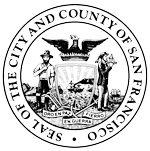
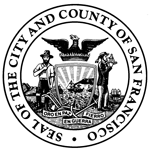
update MOCI branding

diff --git a/css/style.css b/css/style.css
@@ -1,9 +1,14 @@
 @charset "utf-8";
 /* CSS Document */
 
+* {
+    -webkit-font-smoothing: antialiased;
+}
+
 body{
 	margin:0px;
-	font-family: 'Lato', sans-serif;
+	font-family: "Lato", sans-serif;
+    font-weight: normal;
 }
 
 .container p,
@@ -124,7 +129,7 @@ a:hover {
     font-size: 20px;
     text-transform: uppercase;
     font-family: "Montserrat", sans-serif;
-    color: #FFF;
+    color: #FFFFFF;
 }
 
 @media screen and (min-width: 768px) {
@@ -192,22 +197,40 @@ a:hover {
     text-decoration: underline;
 }
 
-.brand-wrapper {
-    margin-left: 90px;
-    margin-top: 20px;
+.brand-wrapper a:hover {
+    text-decoration: none;
+}
+
+.brand-outer-wrapper a img {
+    margin-right: 3%;
+    margin-top: 5%;
 }
 
 h1.office-brand {
     text-align: left;
-    color: white;
+    color: #FFF;
     padding: 0;
     margin: 0;
+    font-size: 15px;
+    font-family: "Montserrat", sans-serif;
+    text-transform: uppercase;
+    font-weight: normal;
+    line-height: 21px;
+}
+
+.brand-outer-wrapper {
+    float: left;
+    z-index: 100;
+    position: relative;
+    width: 70%;
+    margin-top: 30px;
+    margin-bottom: 10px;
 }
 
 .office-brand-lead {
     margin: 0;
-    padding: 0;
-    color: #fff;
+    padding-top: 6%;
+    color: #FFF;
 }
 
 h1{
@@ -258,7 +281,7 @@ h5 a{
 	width:240px;
 	height:65px;
 	font-size: 28px;
-	font-family: 'lato', 'Helvetica Neue', 'Helvetica Neue Medium', 'HelveticaNeue LT 65 Medium';;
+	font-family: "Lato", 'Helvetica Neue', 'Helvetica Neue Medium', 'HelveticaNeue LT 65 Medium';;
 	text-align:center;
 	font-weight:bold;
 	cursor:pointer;	
@@ -280,7 +303,7 @@ h5 a{
 	width:240px;
 	height:65px;
 	font-size: 28px;
-	font-family: 'lato', 'Helvetica Neue', 'Helvetica Neue Medium', 'HelveticaNeue LT 65 Medium';;
+	font-family: "Lato", 'Helvetica Neue', 'Helvetica Neue Medium', 'HelveticaNeue LT 65 Medium';;
 	text-align:center;
 	font-weight:bold;
 	cursor:pointer;	
@@ -386,4 +409,11 @@ blockquote cite:before {
 
 .program-summary img {
     padding-bottom: 20px;
+}
+
+a img:hover{
+    filter:alpha(opacity=90);
+    -moz-opacity:0.9;
+    -khtml-opacity: 0.9;
+    opacity: 0.9;
 }

diff --git a/index.html b/index.html
@@ -14,7 +14,7 @@
     <link href="css/bootstrap-ie7.css" rel="stylesheet">
     <![endif]-->
     <link href="css/style.css" rel="stylesheet">
-    <link href='http://fonts.googleapis.com/css?family=Lato|Montserrat|Fjalla+One' rel='stylesheet' type='text/css'>
+    <link href='http://fonts.googleapis.com/css?family=Lato:300,400|Montserrat|Fjalla+One' rel='stylesheet' type='text/css'>
     <link rel="icon" type="image/ico" href="images/favicon.ico"/>
 
     <!--[if lt IE 9]>
@@ -58,13 +58,15 @@
 <body data-spy="scroll" data-target="#main-nav-cont" data-offset="100">
 
 <div class="header">
-    <div class="container" style="height: 100px; padding-top: 10px;" id="apply">
-        <a href="http://www.sfmayor.org" target="_blank"><img src="images/city_seal_white.png" width="80px;" class="img-responsive" style="float:left;"/></a>
-        <div class="brand-wrapper">
-            <div class="office-brand-lead">
-                An initiative of
+    <div class="container" id="apply">
+        <div class="brand-outer-wrapper">
+            <a href="http://innovatesf.com" target="_blank"><img src="/images/city_seal_white.png" width="65px;" style="float:left;"></a>
+            <div class="brand-wrapper">
+                <div class="office-brand-lead">
+                    An initiative of
+                </div>
+                <a href="http://innovatesf.com" target="_blank"><h1 class="office-brand">The Mayor's Office of Civic Innovation</h1></a>
             </div>
-            <h1 class="office-brand">The Mayor's Office of Civic Innovation</h1>
         </div>
 
     </div>
